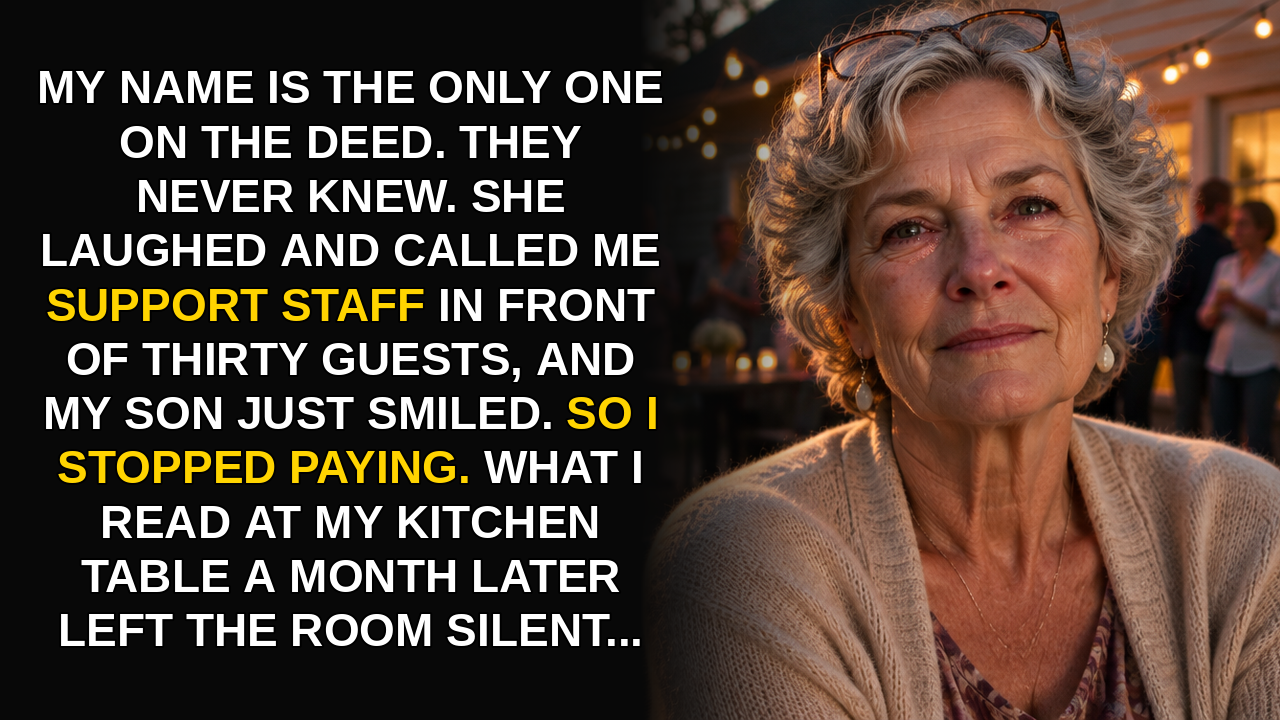
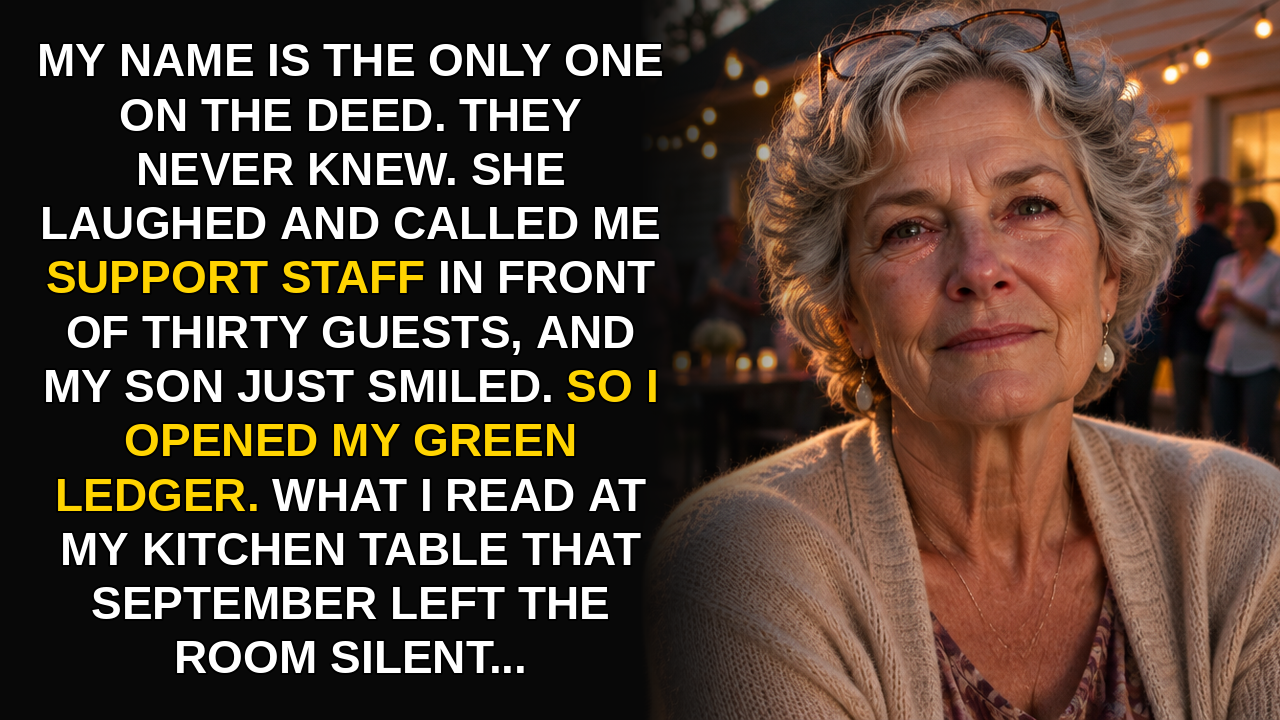
E002: cover C text, cover prompt notes

Changed region(s): [[0.0312, 0.0611, 0.5312, 0.9472]]

diff --git a/episodes/E002-mortgage-secret/cover/prompt.md b/episodes/E002-mortgage-secret/cover/prompt.md
@@ -1,0 +1,4 @@
+# E002 — Cover (made with Higgsfield, gpt_image_2_6, 4 images ≈ 1 credit)
+Scenes: (p1/p2) backyard party at dusk with string lights, Marlene in a cream cardigan, gray curls, glasses in her hair, lemon bars; (k1/k2) kitchen table, three green ledgers.
+Variants: A = p1 (lemon bars, party), B = k2 (ledgers + lemon bars), C = p2 (quiet close-up at the party).
+Source images in cover/flow/ (not in git); background without text: cover/background.png.
